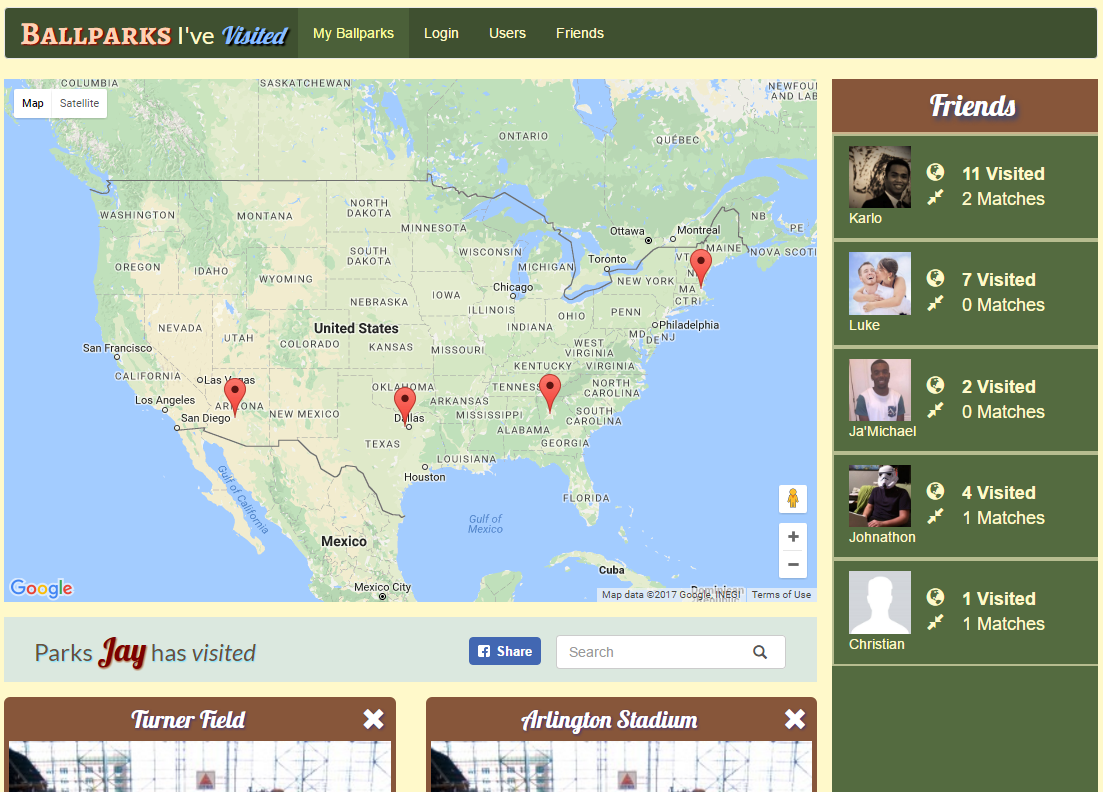
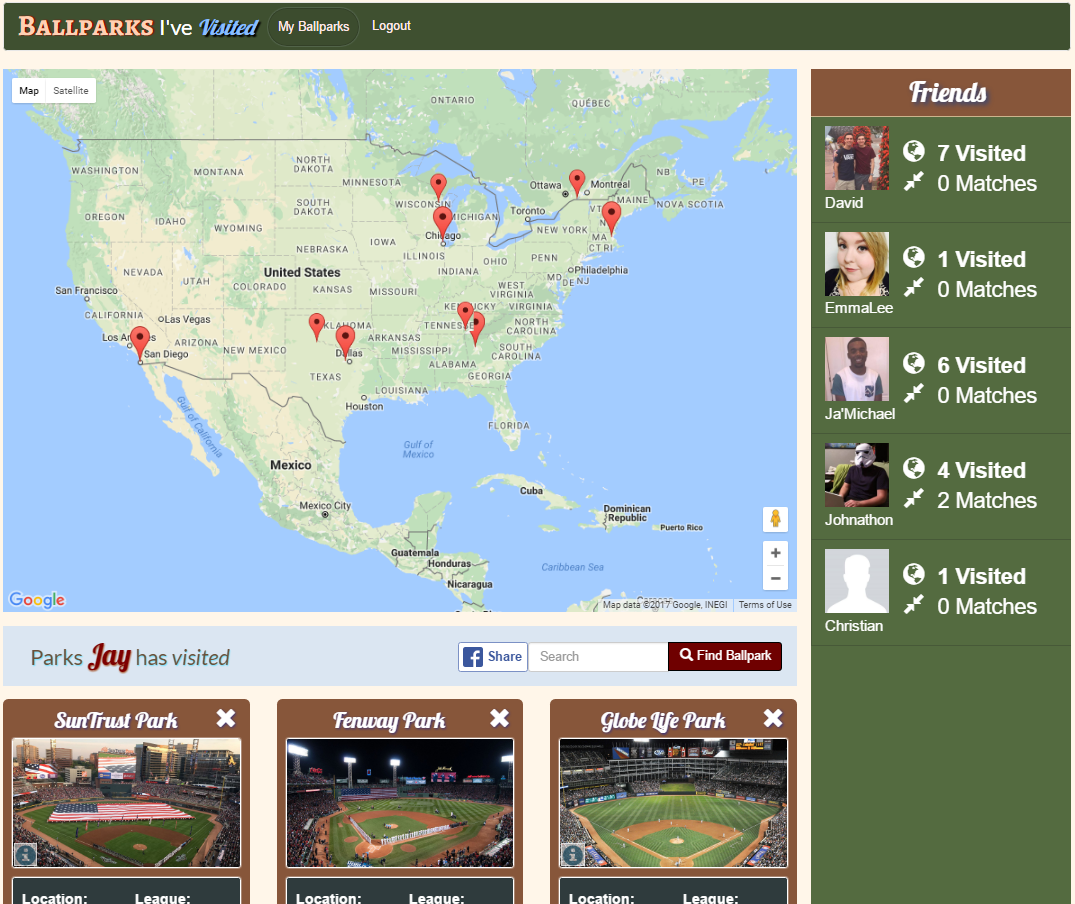
Updated screenshot and login functionality

diff --git a/public/js/controllers/HeaderController.js b/public/js/controllers/HeaderController.js
@@ -1,4 +1,4 @@
-app.controller('HeaderController', function($scope, $location, $window, AuthService) {
+app.controller('HeaderController', function($rootScope, $scope, $location, $window, AuthService, FacebookService, UserService) {
 
 	$scope.isActive = function (viewLocation) { 
 		return viewLocation === $location.path();
@@ -6,11 +6,36 @@ app.controller('HeaderController', function($scope, $location, $window, AuthServ
 
 	$scope.isLoggedIn = function() {
 		return AuthService.isTokenValid();
-	}
+	};
 
 	$scope.logout = function() {
 		AuthService.clearToken();
 		$window.location.href = '/';
-	}
+	};
+	
+	$scope.login = function () {
+		var loc = $location.path();
+		
+		if (loc == '/') {
+			FacebookService.login()
+			.then(function(response) {
+				loginResponse = response;
+				return FacebookService.getUserData();
+			})
+			.then(function(userResponse) {
+				// save the user
+				var userData = userResponse;
+				angular.extend(userData, loginResponse.authResponse);
+				return UserService.saveUser(userData);
+			})
+			.then(function(jwt) {
+				AuthService.setToken(jwt.data);
+				// redirect to main page
+				$window.location.href = '/my-ballparks';
+			});
+		} else { 
+			$window.location.href = '/' 
+		};
+	};	
 
 });

diff --git a/public/js/controllers/MainCtrl.js b/public/js/controllers/MainCtrl.js
@@ -1,11 +1,10 @@
 app.controller('MainController', function($scope, $window, UserService, FacebookService, AuthService, Facebook) {
-
 	// redirect to my-ballparks if logged in
 	if(AuthService.isTokenValid()) {
 		$window.location.href = '/my-ballparks';
-	}
+	};
 
-	$scope.login = function() {
+	$scope.login = function () {
 		FacebookService.login()
 		.then(function(response) {
 			loginResponse = response;
@@ -19,15 +18,12 @@ app.controller('MainController', function($scope, $window, UserService, Facebook
 			// save the user
 			var userData = userResponse;
 			angular.extend(userData, loginResponse.authResponse);
-
 			return UserService.saveUser(userData);
 		})
 		.then(function(jwt) {
 			AuthService.setToken(jwt.data);
-
 			// redirect to main page
 			$window.location.href = '/my-ballparks';
 		});
-	};
-
+	};	
 });

diff --git a/public/index.html b/public/index.html
@@ -87,7 +87,7 @@
 				<div class="collapse navbar-collapse" id="ballpark-nav">
 					<ul class="nav navbar-nav">
 						<li ng-if="isLoggedIn()" ng-class="{ active: isActive('/my-ballparks')}"><a href="/my-ballparks">My Ballparks</a></li>
-						<li ng-if="!isLoggedIn()" ng-class="{ active: isActive('/')}"><a href="/">Login</a></li>
+						<li ng-if="!isLoggedIn()" ng-class="{ active: isActive('/')}"><a href="/" ng-click="login()">Login</a></li>
 						<li ng-if="isLoggedIn()"><a href="#" ng-click="logout()">Logout</a></li>
 					</ul>
 				</div><!-- /.navbar-collapse -->

diff --git a/public/views/home.html b/public/views/home.html
@@ -4,7 +4,7 @@
 			<h1><span id="ballparks">Ballparks</span> <span id="plain"> I've </span><span id="i-visited">Visited</span></h1>
 			
 			<p id="top-login-hide">
-				<button class="btn btn-primary btn-login" ng-click="login()">Login</button>
+				<button class="btn btn-primary btn-login" ng-click="login()">Login with Facebook</button>
 			</p>
 			
 			<div class="row login-row">
@@ -31,7 +31,6 @@
 			</div>
 			
 			<p>
-				<button class="btn btn-primary btn-login" ng-click="login()">Login</button>
 			</p>
 		</div>
 	</div>

diff --git a/public/css/style.css b/public/css/style.css
@@ -107,7 +107,6 @@ hr {
 	margin-left: auto;
     margin-right: auto;
 	font-size: x-large;
-	width: 200px;
 }
 
 .login-column {
